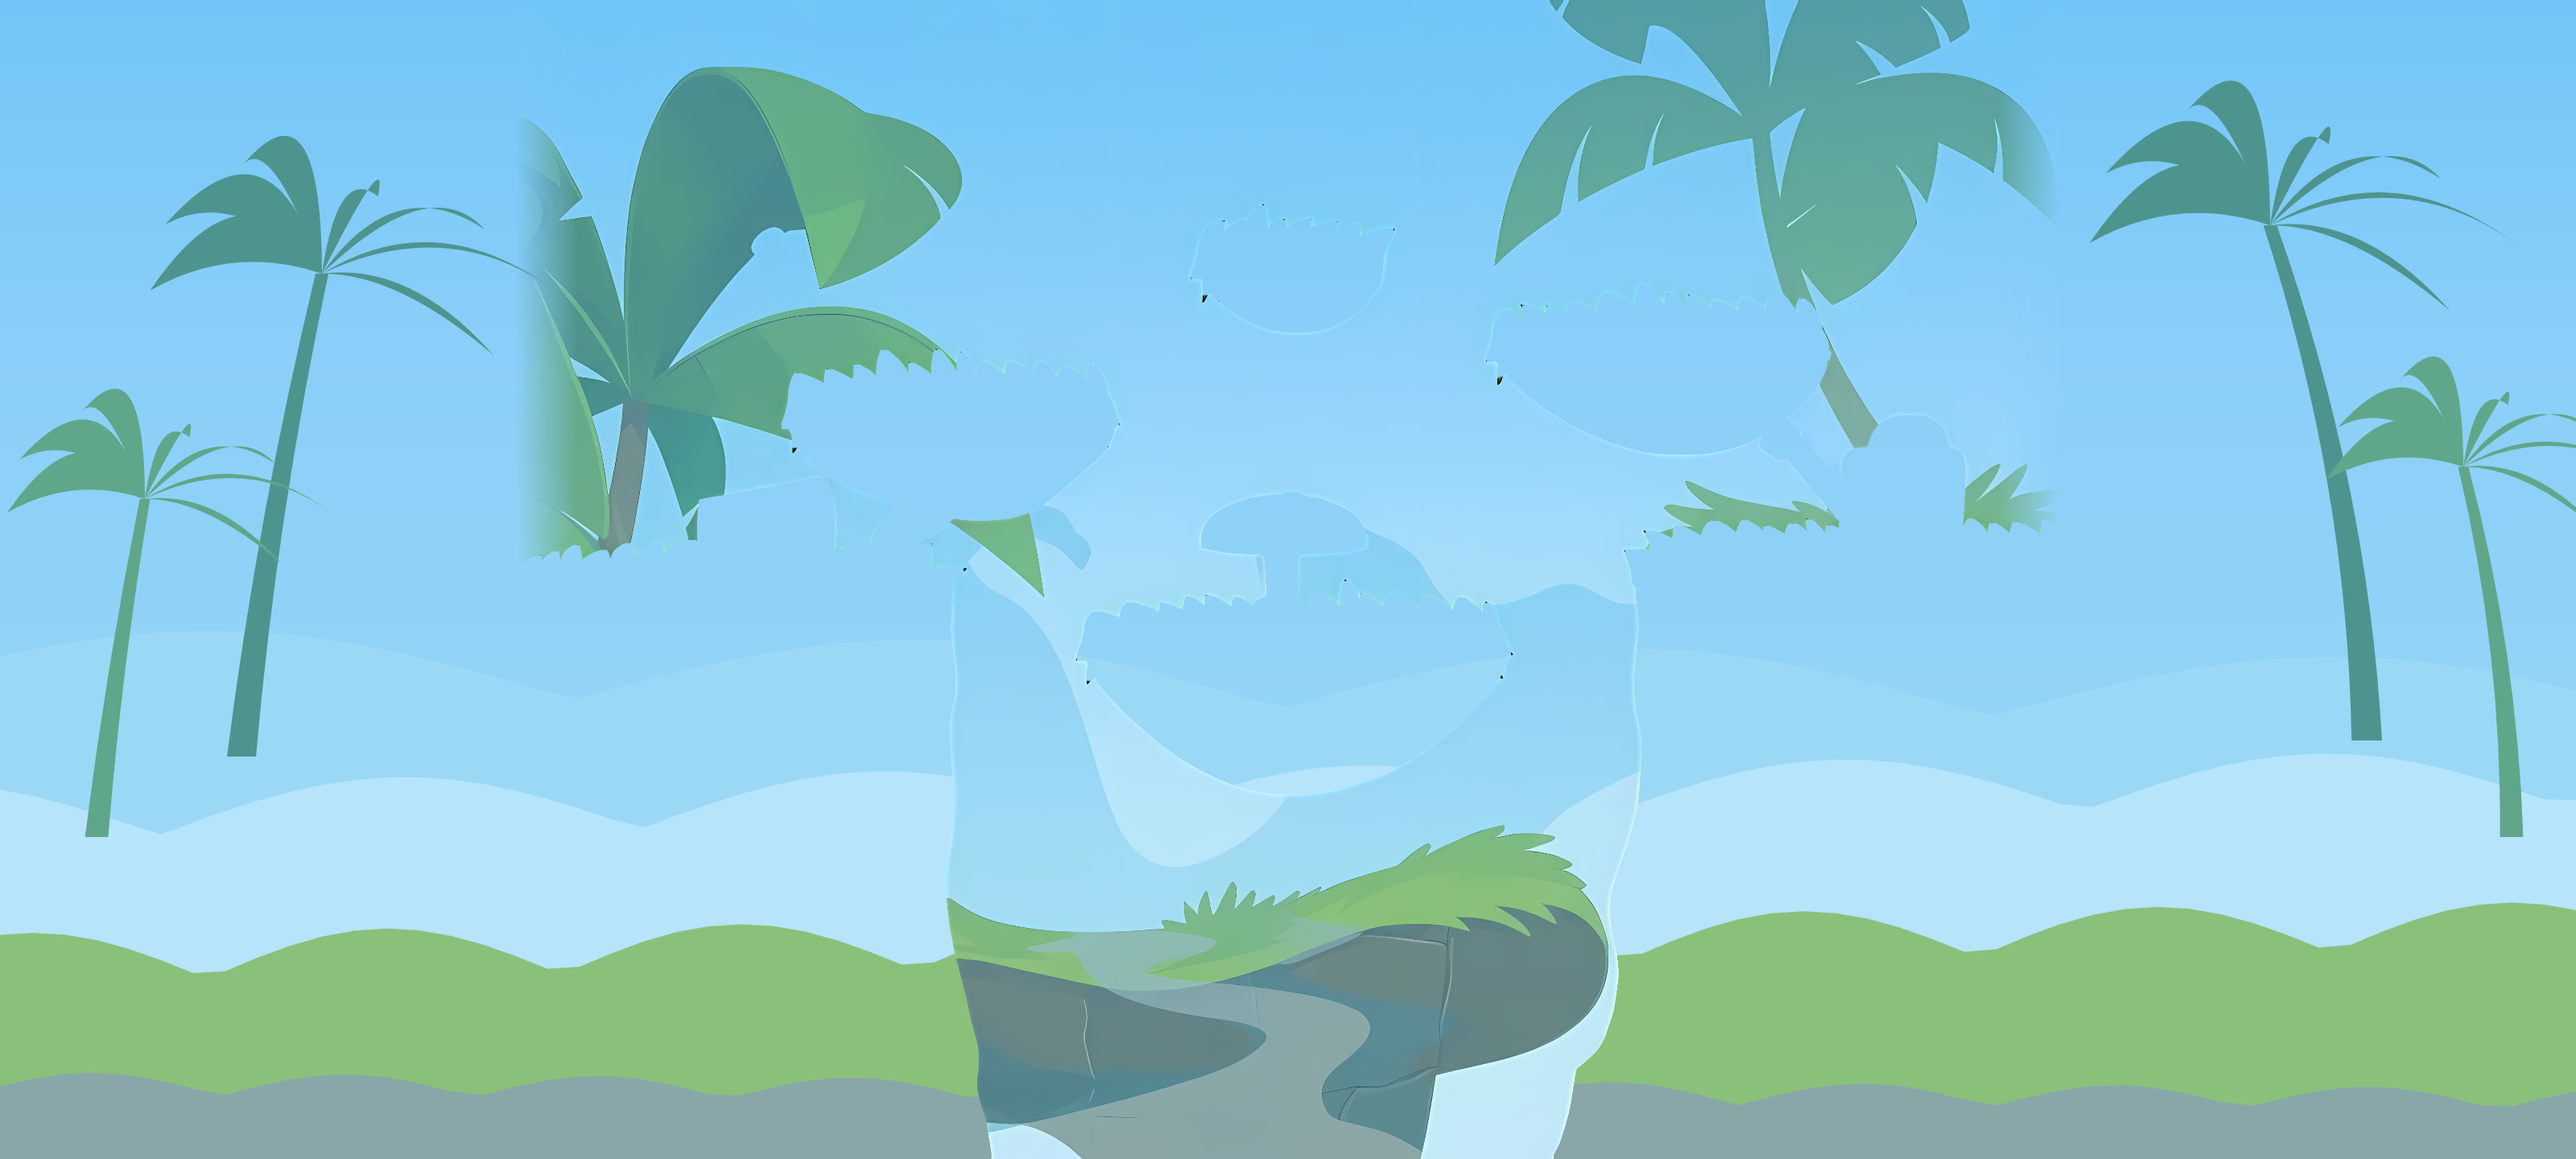
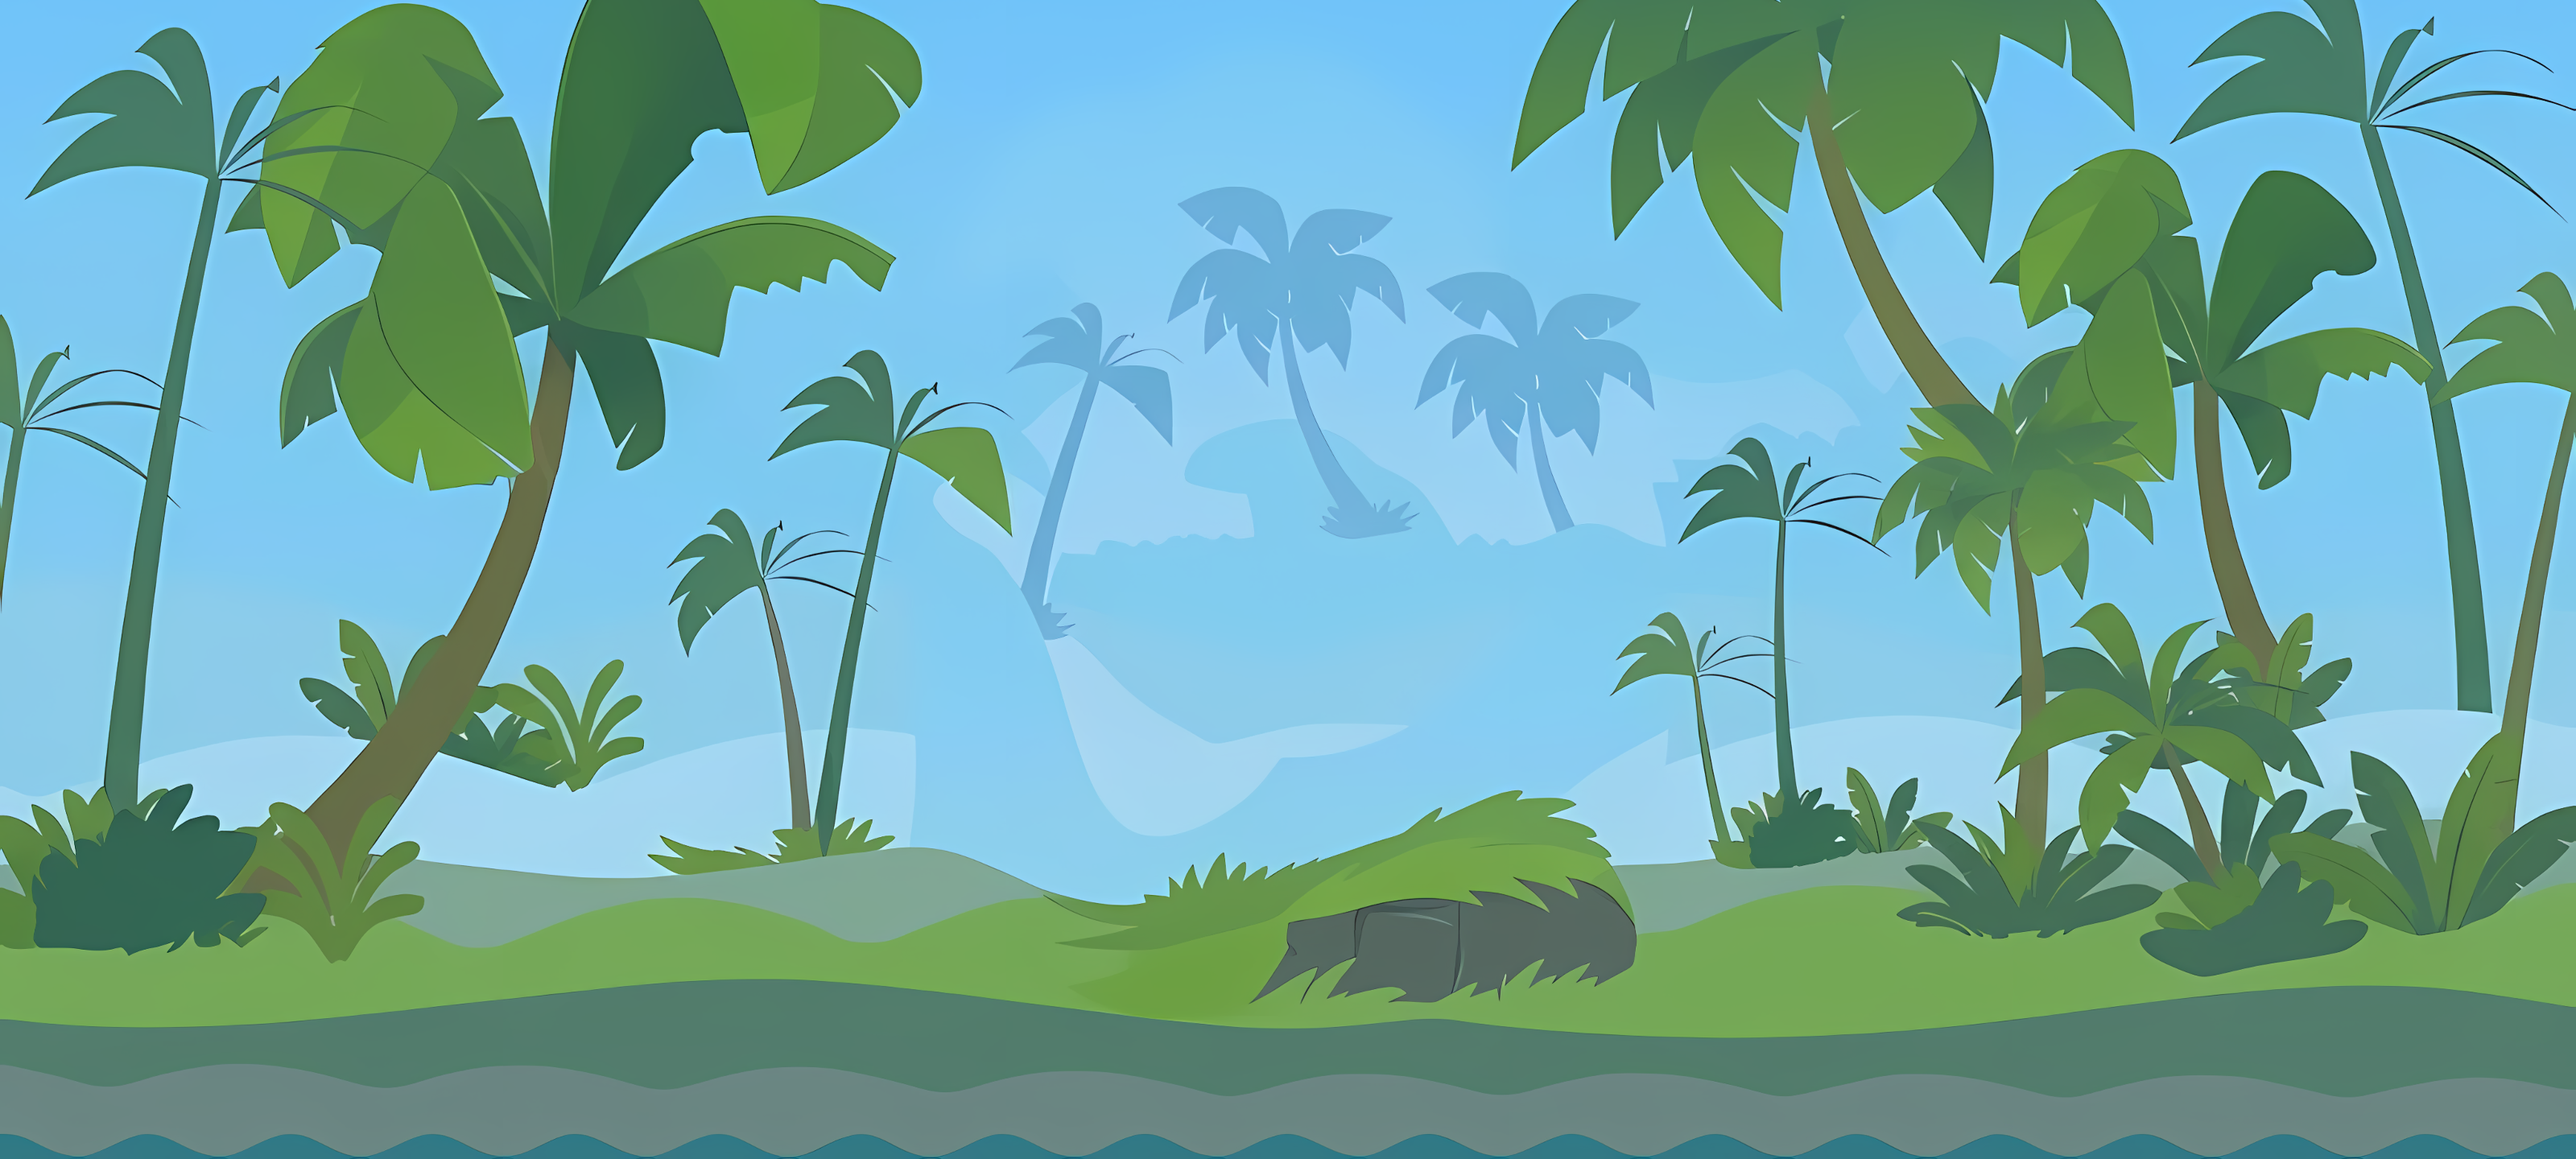
Glade: use the painted Gemini backdrop
gen-glade takes an optional backdrop picture that covers the world,
bottom-aligned, instead of the generated scene. The Gemini sources and
the rebuild steps are kept in docs/art/sources/glade.

diff --git a/docs/art/sources/glade/README.md b/docs/art/sources/glade/README.md
@@ -1,0 +1,14 @@
+# Glade map sources
+
+Pictures generated with Google Gemini for the `glade` map (`public/maps/glade`).
+
+- `picture.png` (1024x768): the scene; the terrain is cut out of it.
+- `backdrop.png` (1024x491): the background for the whole world.
+
+Rebuild the map:
+
+1. Upscale both 4x with Real-ESRGAN, anime model (`realesrgan-ncnn-vulkan -n realesrgan-x4plus-anime`,
+   from github.com/xinntao/Real-ESRGAN releases; a local tool, not a project dependency).
+2. `node scripts/art/picture/cut.mjs picture@4x.png 4096 3072 cut@4x.png "" 7`
+3. `node scripts/art/picture/gen-glade.mjs picture@4x.png cut@4x.png backdrop@4x.png`
+4. `npm run maps`
